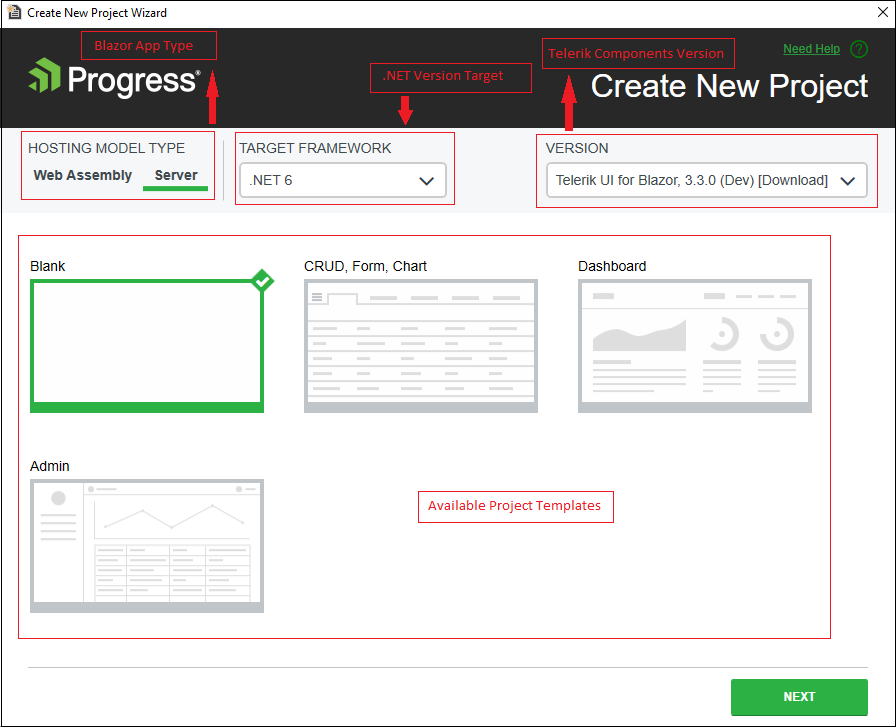
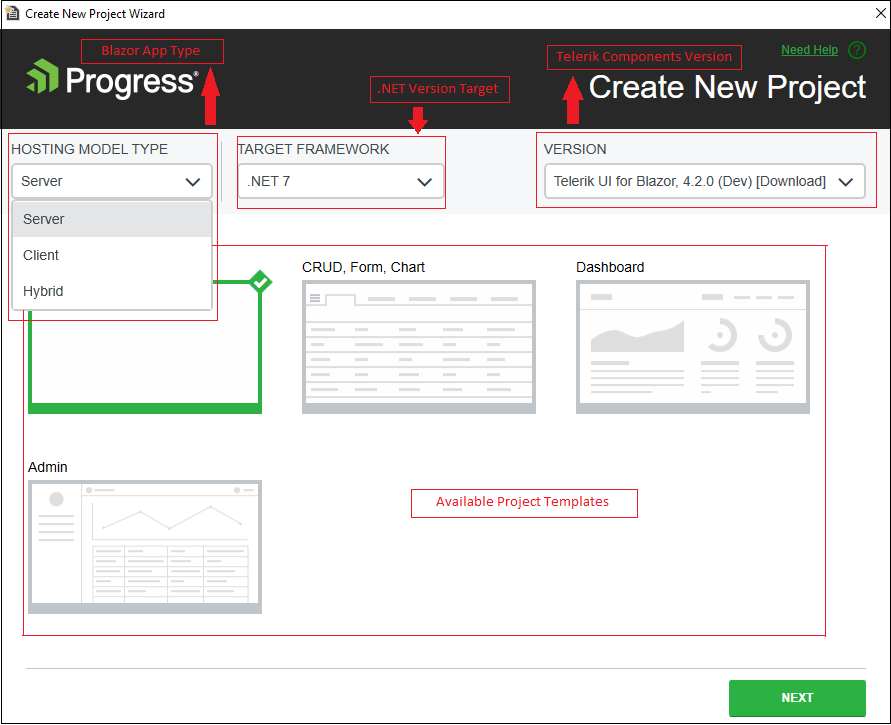
docs(common): update the project wizard article and add hybrid template

diff --git a/getting-started/what-you-need.md b/getting-started/what-you-need.md
@@ -70,7 +70,7 @@ You can obtain the required UI for Blazor packages in four ways:
 
 The Telerik UI for Blazor components require a [Telerik stylesheet](#telerik-stylesheet) and a [JS Interop file](#telerik-js-interop-file) in the app's main index file. Depending on the Blazor hosting model and framework version, this index file will differ:
 
-   * For Client-Side Blazor apps, use the `wwwroot/index.html` file.
+   * For Client-Side and Hybrid Blazor apps, use the `wwwroot/index.html` file.
    * For Server-Side Blazor apps, use one of the following files:
       * `~/Pages/_Host.cshtml` for .NET 3.x
       * `~/Pages/_Layout.cshtml` for .NET 6
@@ -120,8 +120,9 @@ To use the Telerik components, you must add a few items to your projects. Some o
 
 2. Follow the section for your project type:
 
-   * [Client-side (WASM)](#client-side-project-specifics).
-   * [Server-side](#server-side-project-specifics).
+   * [Client-side (WASM)](#client-side-project-specifics)
+   * [Server-side](#server-side-project-specifics)
+   * [Hybrid](#hybrid-project-specifics)
 
 
 ### Common Configuration
@@ -162,6 +163,33 @@ The final step is to register the Telerik services. In a server-side Blazor proj
 **C#**
 @[template](/_contentTemplates/common/js-interop-file.md#register-telerik-service-server)
 
+### Hybrid Project Specifics
+
+The final step is to register the Telerik services. In a Hybrid Blazor project, you register services in the `MauiProgram.cs` file of the project:
+
+**C#**
+<div class="skip-repl"></div>
+````MauiProgram.cs
+public static MauiApp CreateMauiApp()
+{
+   var builder = MauiApp.CreateBuilder();
+   builder
+      .UseMauiApp<App>()
+      .ConfigureFonts(fonts =>
+      {
+            fonts.AddFont("OpenSans-Regular.ttf", "OpenSansRegular");
+      });
+
+   builder.Services.AddMauiBlazorWebView();
+      
+   // Register the Telerik services.
+   builder.Services.AddTelerikBlazor();
+
+   var host = builder.Build();
+
+   return host;
+}
+````
 
 @[template](/_contentTemplates/common/get-started.md#next-steps-after-getting-started)
 

diff --git a/getting-started/vs-integration/convert-project-wizard.md b/getting-started/vs-integration/convert-project-wizard.md
@@ -21,7 +21,7 @@ The wizard adds the following client assets to your project:
 The wizard also configures the project to use the Telerik UI for Blazor components by adding the following utilities:
 * [Required `@using` directives]({%slug getting-started/what-you-need%}#common-configuration) to the `~/_Imports.razor` file.
 * [`TelerikLayout.razor` component]({%slug getting-started/what-you-need%}#common-configuration) at the root level of the DOM.
-* Registration for the Telerik services for [client-side projects]({%slug getting-started/what-you-need%}#client-side-project-specifics) and for [server-side projects]({%slug getting-started/what-you-need%}#server-side-project-specifics).
+* Registration for the Telerik services for [client-side projects]({%slug getting-started/what-you-need%}#client-side-project-specifics), for [server-side projects]({%slug getting-started/what-you-need%}#server-side-project-specifics), and for [hybrid projects]({%slug getting-started/what-you-need%}#hybrid-project-specifics).
 
 ## Getting the Wizard
 
@@ -102,7 +102,7 @@ The most common reason for this problem is a mismatch between the installed vers
 
 The cause are wrong paths to the needed web assets. To resolve this open the index file:
 
-* `wwwroot/index.html` for a WebAssembly Blazor app
+* `wwwroot/index.html` for a WebAssembly and a Hybrid Blazor app
 * `~/Pages/_Host.cshtml` for a Server-Side Blazor app using .NET 3.x or .NET 5
 * `~/Pages/_Layout.cshtml` for a Server-Side Blazor app using.NET 6
 

diff --git a/getting-started/vs-integration/new-project-wizard.md b/getting-started/vs-integration/new-project-wizard.md
@@ -21,7 +21,7 @@ The wizard adds the following client assets to your project:
 The wizard also configures the project to use the Telerik UI for Blazor components by adding the following utilities:
 * [Required `@using` directives]({%slug getting-started/what-you-need%}#common-configuration) to the `~/_Imports.razor` file.
 * [`TelerikLayout.razor` component]({%slug getting-started/what-you-need%}#common-configuration) at the root level of the DOM.
-* Registration for the Telerik services for [client-side projects]({%slug getting-started/what-you-need%}#client-side-project-specifics) and for [server-side projects]({%slug getting-started/what-you-need%}#server-side-project-specifics).
+* Registration for the Telerik services for [client-side projects]({%slug getting-started/what-you-need%}#client-side-project-specifics), for [server-side projects]({%slug getting-started/what-you-need%}#server-side-project-specifics), and for [hybrid projects]({%slug getting-started/what-you-need%}#hybrid-project-specifics).
 
 ## Getting the Wizard
 
@@ -56,7 +56,7 @@ In the order of their appearance, the Create New Project wizard presents the fol
 
 2. On the second screen, you can choose:
 
-   * A WebAssembly or server-side Blazor app.
+   * A WebAssembly, server-side, or Hybrid Blazor app.
    * The .NET version you want to use.
    * The Telerik UI for Blazor version.
    * One of the [predefined Telerik project](#predefined-project-templates) templates.

diff --git a/_contentTemplates/common/js-interop-file.md b/_contentTemplates/common/js-interop-file.md
@@ -141,33 +141,4 @@ builder.Services.AddTelerikBlazor();
 
 await builder.Build().RunAsync();
 ````
-````.NET_3.x
-using Microsoft.AspNetCore.Components.WebAssembly.Hosting;
-using Microsoft.Extensions.DependencyInjection;
-using System.Threading.Tasks;
-using System.Net.Http;
-using System;
-        
-namespace ClientBlazorProject.Client // Make sure this matches your actual WASM project namespace.
-{
-    public class Program
-    {
-        public static async Task Main(string[] args)
-        {
-            // sample host builder for a WASM app, yours may differ
-            var builder = WebAssemblyHostBuilder.CreateDefault(args);
-            builder.RootComponents.Add<App>("app");
-            builder.Services.AddScoped(sp => new HttpClient { BaseAddress = new Uri(builder.HostEnvironment.BaseAddress) });
-            // There may be more code here.
-
-            // Register the Telerik services.
-            builder.Services.AddTelerikBlazor();
-
-            // There may be more code here.
-            // sample host builder for a WASM app, yours may differ
-            await builder.Build().RunAsync();
-        }
-    }
-}
-````
 #end
